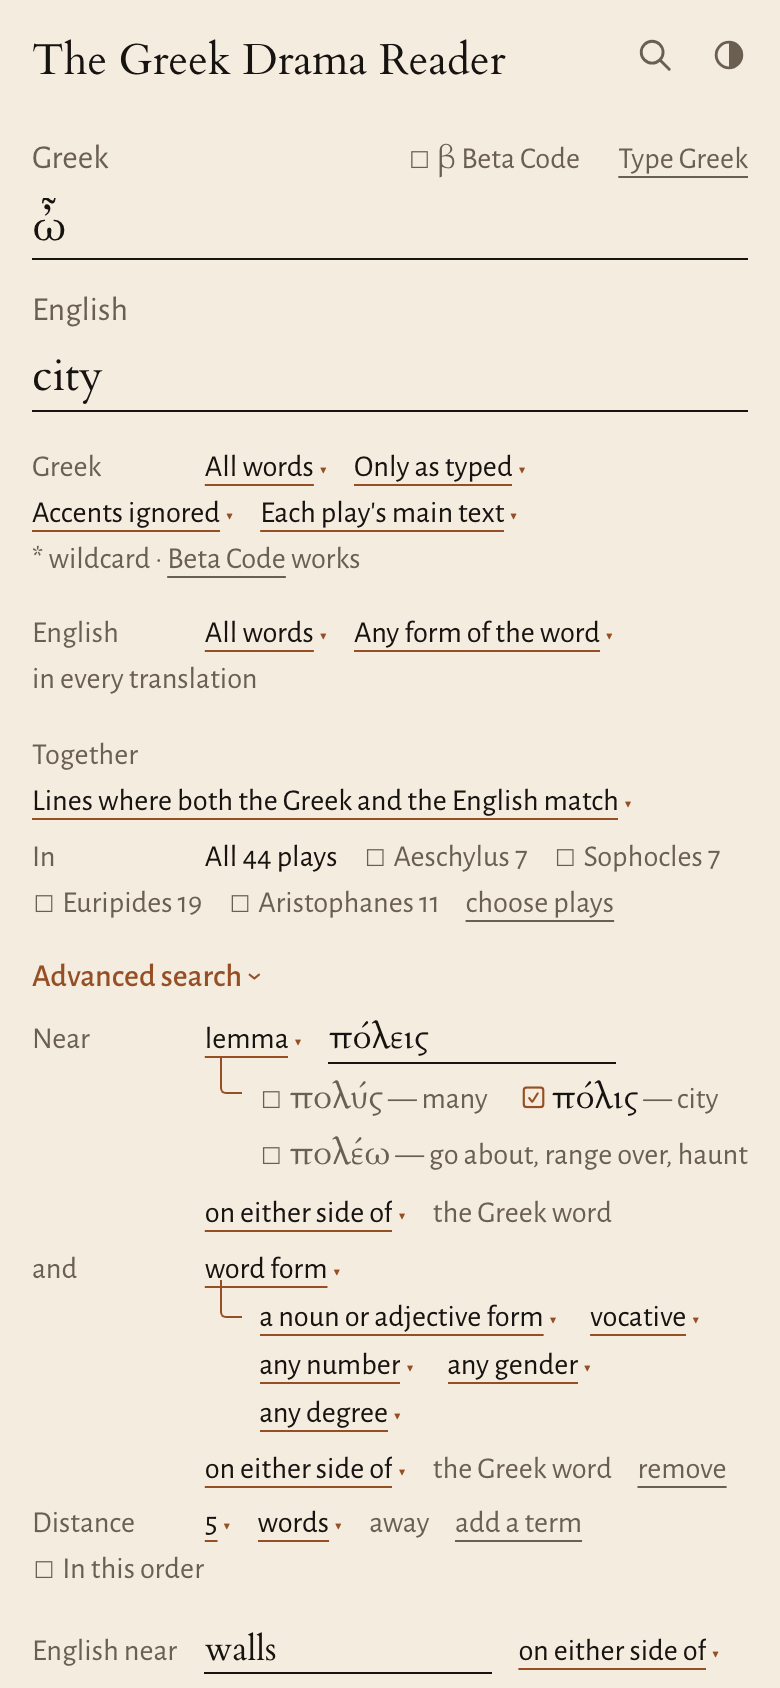
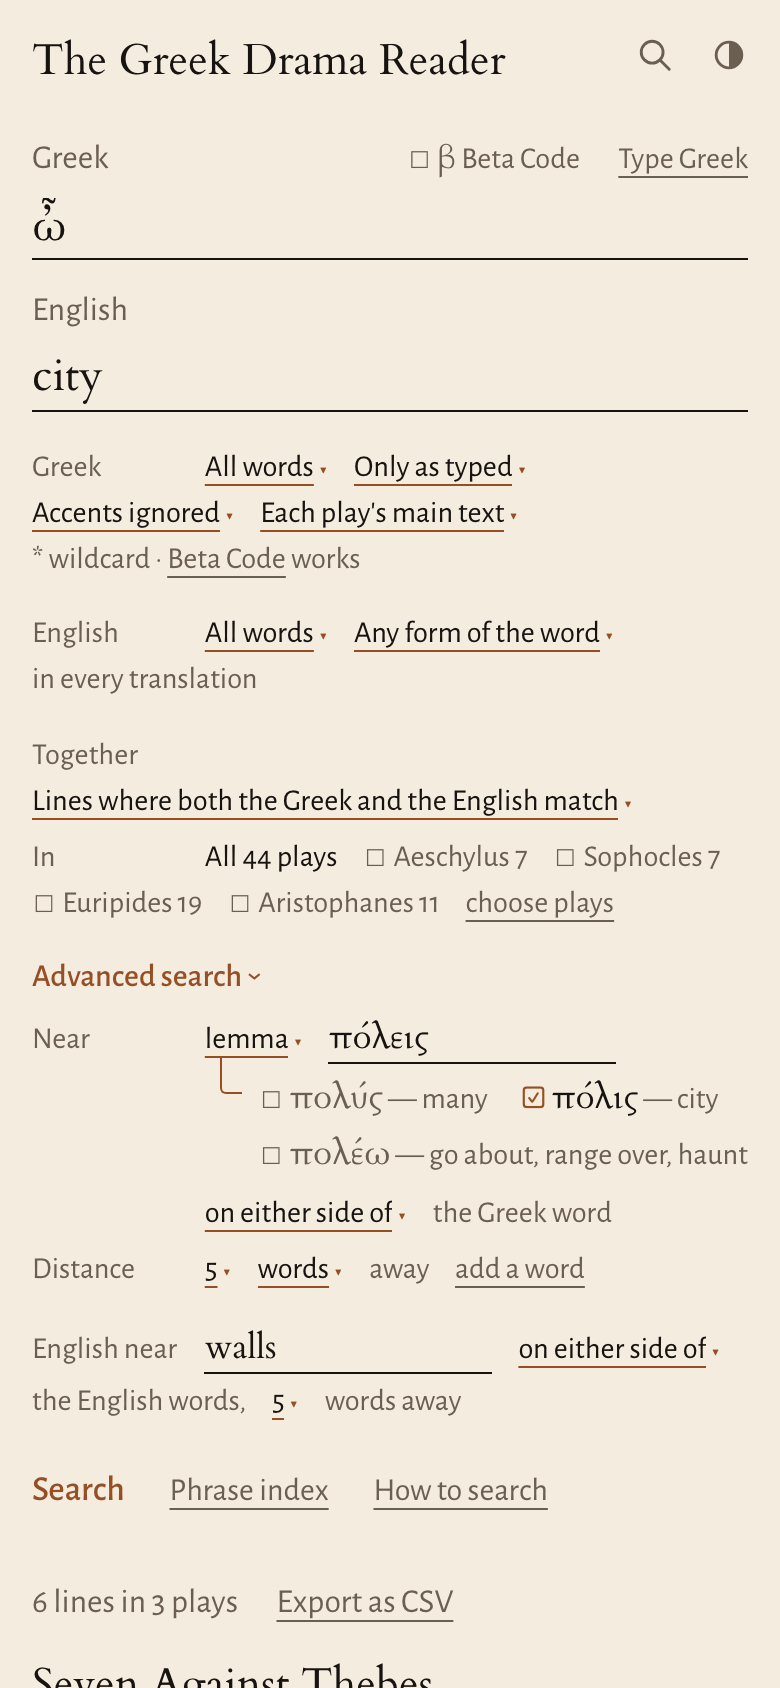
Near: "add a word" (John); screenshots show one Near word by default

diff --git a/shared/components/Search.svelte b/shared/components/Search.svelte
@@ -1481,7 +1481,7 @@
               <span class="v"><select aria-label="Distance: how many" value={String(nearWindow)} on:change={(e) => (nearWindow = Number(e.currentTarget.value))}>{#each (nearUnit === 'line' ? LINE_OPTS : WINDOW_OPTS) as n}<option value={String(n)}>{n}</option>{/each}</select><i aria-hidden="true">▾</i></span>
               <span class="v"><select aria-label="Distance: words or lines" value={nearUnit} on:change={(e) => { nearUnit = e.currentTarget.value as 'words' | 'line'; nearWindow = nearUnit === 'line' ? Math.min(nearWindow, 1) : Math.max(nearWindow, 1); }}><option value="words">words</option><option value="line">lines</option></select><i aria-hidden="true">▾</i></span>
               <span class="mn">away{nearUnit === 'line' && nearWindow === 0 ? ' (the same line)' : ''}</span>
-              {#if nearMore.length < MAX_NEAR_MORE}<button type="button" class="ln" on:click={() => { nearMore = [...nearMore, newTerm()]; }}>add a term</button>{/if}
+              {#if nearMore.length < MAX_NEAR_MORE}<button type="button" class="ln" on:click={() => { nearMore = [...nearMore, newTerm()]; }}>add a word</button>{/if}
               {#if nearMore.length}<label class="ck"><input type="checkbox" bind:checked={nearOrdered} />In this order</label>{/if}
             </p>
           {/if}
